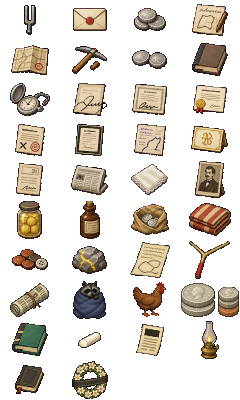
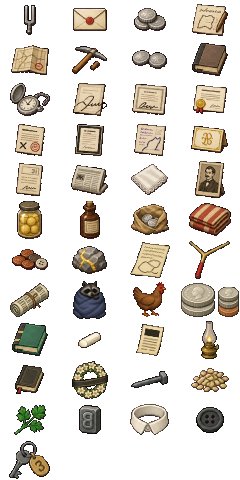
wip: objects second pass wired

diff --git a/tools/art/objects-second-pass-icons-place.py b/tools/art/objects-second-pass-icons-place.py
@@ -1,0 +1,33 @@
+"""The seven icons of the second pass of objects, moved into the shipping sheet (reference/objects-second-pass/handback.md
+section 1; errata 250, 254).
+
+objects-second-pass operation 1 cut seven 60x40 cells into art/ui/item-icons-objects-second-pass.png. They are appended
+to art/ui/item-icons.png by tools/art/act3-estate-icons-place.py's own routine, pointed at this sheet, as Act II's five
+were. No existing cell moves. No image operation here.
+
+    python3 tools/art/objects-second-pass-icons-place.py
+"""
+import importlib.util
+import json
+import os
+
+ROOT = os.path.dirname(os.path.dirname(os.path.dirname(os.path.abspath(__file__))))
+spec = importlib.util.spec_from_file_location('place', os.path.join(ROOT, 'tools/art/act3-estate-icons-place.py'))
+place = importlib.util.module_from_spec(spec)
+spec.loader.exec_module(place)
+
+place.SMALL = os.path.join(ROOT, 'art/ui/item-icons-objects-second-pass.json')
+place.IDS = ['nail', 'oats', 'parsley', 'capital_b', 'pikes_collar', 'button', 'room_key']
+
+if __name__ == '__main__':
+    before = json.load(open(place.icons.TABLE))
+    place.main()
+    table = json.load(open(place.icons.TABLE))
+    for key in ('act3Estate', 'act2Papers'):
+        if key in before: table[key] = before[key]
+    table['objectsSecondPass'] = ('The second pass of objects (doc 121 N-4): nail, oats, parsley, capital_b, pikes_collar, '
+                                  'button and room_key, cut by tools/art/objects-second-pass-icons-cut.py '
+                                  '(objects-second-pass operation 1) at slot size and moved in by '
+                                  'tools/art/objects-second-pass-icons-place.py (errata 254).')
+    with open(place.icons.TABLE, 'w') as f:
+        f.write(json.dumps(table, indent=2) + '\n')

diff --git a/docs/121-the-not-done-list.md b/docs/121-the-not-done-list.md
@@ -27,14 +27,14 @@ Nothing here touches a load-bearing line, HOB_C1, the letters home, Room 32, Act
 - Opening the drawer (or taking from it) on the funeral day leaves it open (`T_DRAWER_OPEN`).
 - The door, with the drawer open: his line, and he stays.
 - CLOSE the drawer: shut, and the door is a door again.
-- **Art (brief `reference/objects-second-pass`):** the plate draws the drawer open at all times. A patch draws it shut until he opens it and again once he has shut it. Until the patch is in, the shutting is told.
+- **Art (brief `reference/objects-second-pass`):** the plate draws the drawer open at all times. A patch draws it shut until he opens it and again once he has shut it. The patch is in (errata 254).
 
 ### N-2 · The letter, delivered
 
 - THE NAILS at the mercantile give one nail, once.
 - THE LETTER on PIKE'S MARKER (or A NAIL on it), with both in hand and the memorial booked: the letter is fixed to the board with the nail, driven with the tuning fork. Both leave.
 - Before the memorial is booked, doc 120's lines hold: the church still wants the letter.
-- **Art:** a small patch, the envelope on the board. Until it is in, told.
+- **Art:** a small patch, the envelope on the board. It is in (errata 254), and hangs behind the Colonel's wreath when both are there.
 
 ### N-3 · The raccoon, dressed
 
